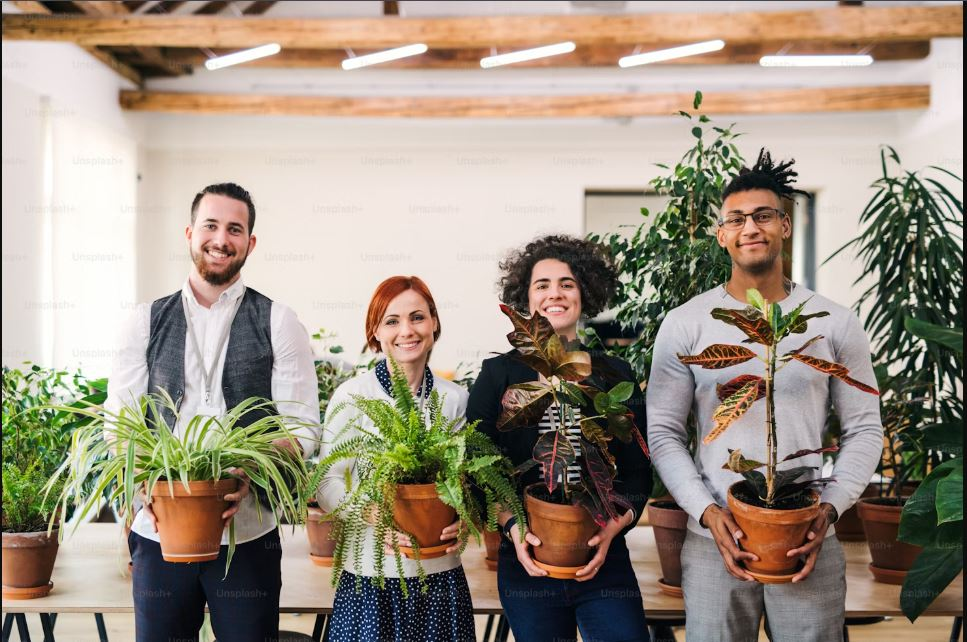
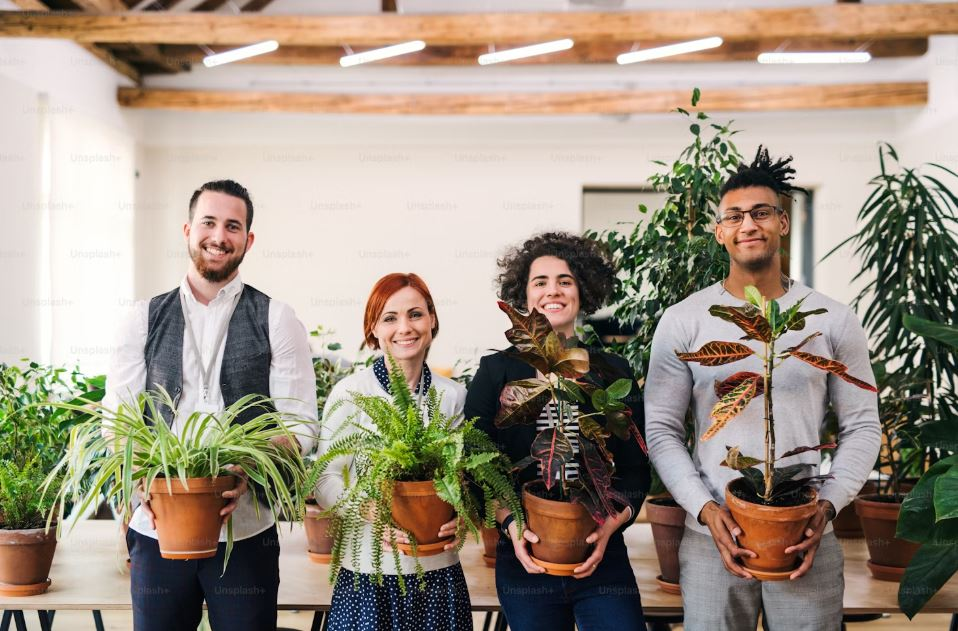
all category url change

diff --git a/src/pages/AllCategories/AllCategories.tsx b/src/pages/AllCategories/AllCategories.tsx
@@ -1,7 +1,7 @@
 import AllCategoryCard from "@/components/AllCard/AllCategoryCard";
 import ScrollToTopButton from "../Home/ScrollToTopButton";
 import { Link, Outlet, useLocation } from "react-router-dom";
-
+import allCategory from "../../../public/category.jpg";
 
 const AllCategories = () => {
     const location = useLocation();
@@ -15,14 +15,14 @@ const AllCategories = () => {
                     <p className="font-jost text-lg font-medium md:pb-2 tracking-wider text-black mt-6">Choose the right category and get plant for you. <br /> That Helps to heal life.</p>
                 </div>
                 <div className="flex ">
-                    <img src="https://wpbingosite.com/wordpress/flacio/wp-content/uploads/2021/12/banner-10-1.jpg" className="md:h-[49vh] lg:h-[70vh] md:w-[42vh] lg:w-[50vh]" alt="" />  
-                    <img src="https://wpbingosite.com/wordpress/flacio/wp-content/uploads/2021/12/banner-10-3.jpg" className="h-[70vh] w-[70vh] md:hidden  lg:flex" alt="" />
+                  
+                    <img src="../../../public/categorybanner1.jpg" className="h-[70vh] w-[110vh]  lg:flex" alt="" />
                 </div>
             </div>
             <div className="flex md:hidden flex-col items-center justify-center">
                 <div className="relative w-full h-[50vh] md:h-[60vh] bg-no-repeat bg-center bg-cover"
                     style={{
-                        backgroundImage: `url("https://wpbingosite.com/wordpress/flacio/wp-content/uploads/2021/12/slider-10-8.jpg")`,
+                        backgroundImage: `url(${allCategory})`,
                         opacity: "0.9",
 
                     }}>
